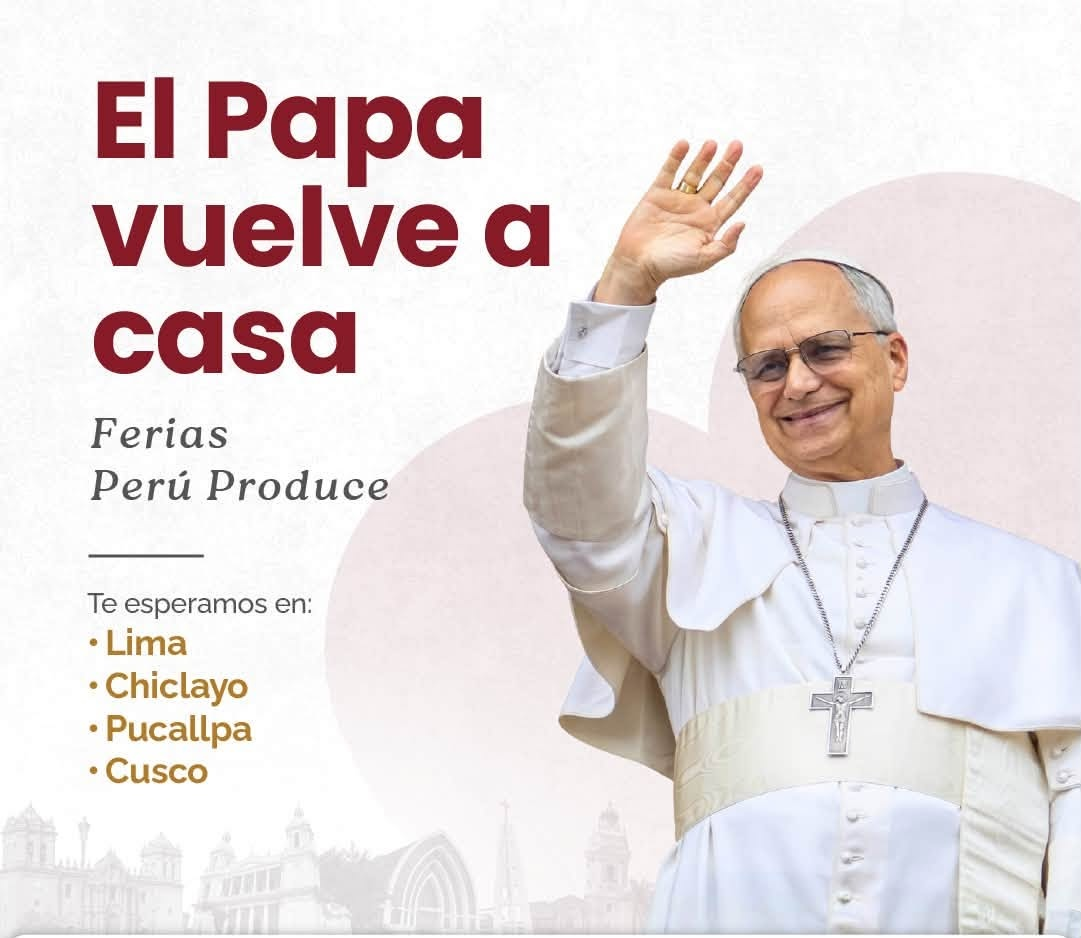
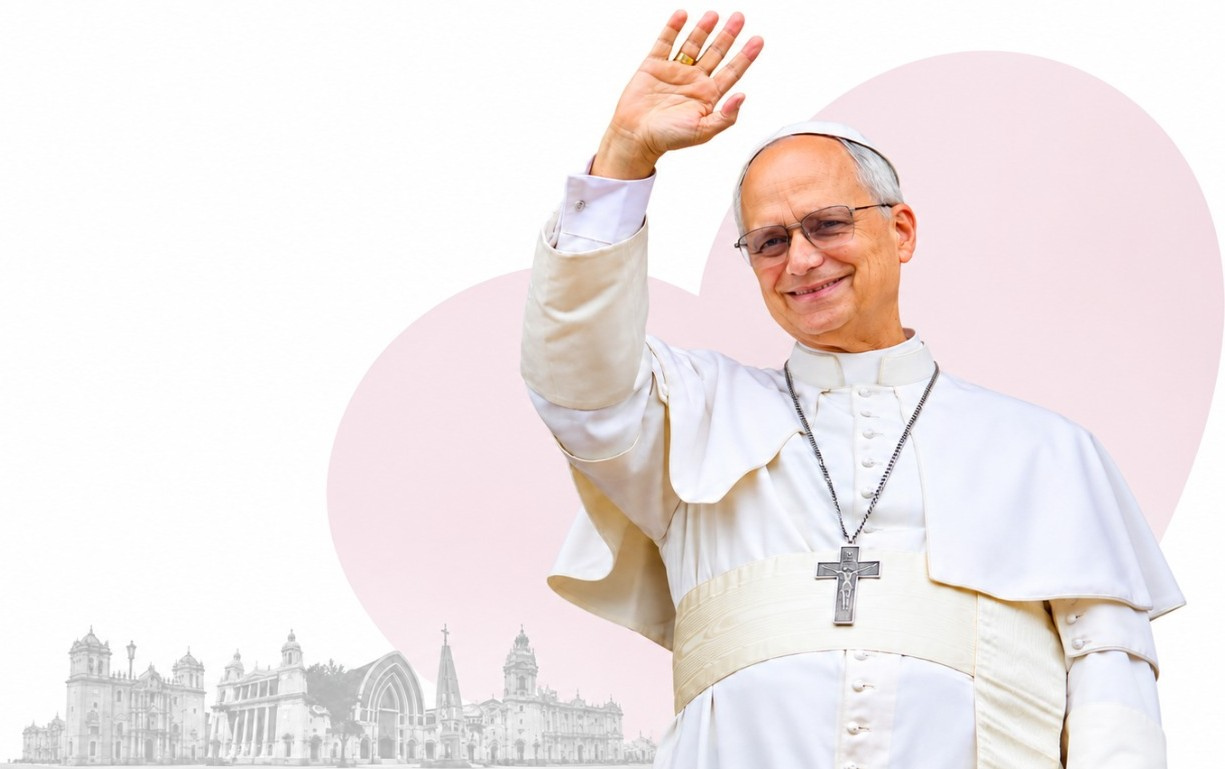
app

diff --git a/src/pages/mypes/tu-empresa.tsx b/src/pages/mypes/tu-empresa.tsx
@@ -1,5 +1,5 @@
 import { useEffect, useRef, useState } from "react";
-import mypesStore from "@/assets/images/mypes-store.jpeg";
+import mypesStore from "@/assets/images/mypes-store.png";
 // import pointPhone from "@/assets/points/point-1.png";
 // import pointClock from "@/assets/points/point-2.png";
 // import pointDiscount from "@/assets/points/point-3.png";
@@ -20,6 +20,7 @@ type Store = {
   descripcion?: string | null;
   region?: string | null;
   provincia?: string | null;
+  numero_dni?: string | null;
 };
 
 type ApiInscrito = {
@@ -33,6 +34,7 @@ type ApiInscrito = {
   descripcion?: string | null;
   region?: string | null;
   provincia?: string | null;
+  numero_dni?: string | null;
 };
 
 type ApiResponse = {
@@ -79,7 +81,7 @@ function StoreDescription({ description, onOpen }: { description: string; onOpen
 
   return (
     <div>
-      <p ref={descriptionRef} className="mt-2 line-clamp-3 text-xs leading-5 text-black/60">
+      <p ref={descriptionRef} className="mt-2 line-clamp-3 text-xs leading-5 text-black/60 sm:text-[13px]">
         {description}
       </p>
       {isTruncated && (
@@ -119,6 +121,7 @@ export default function TuEmpresa() {
   const loadingRef = useRef(false);
   const pageRef = useRef(0);
   const hasMoreRef = useRef(true);
+  const [orderSeed] = useState(() => `${Date.now().toString(36)}-${Math.random().toString(36).slice(2, 10)}`);
 
   useEffect(() => {
     const loadNextPage = async () => {
@@ -135,6 +138,7 @@ export default function TuEmpresa() {
           params: {
             page: nextPage,
             pageSize: PAGE_SIZE,
+            seed: orderSeed,
           },
         });
 
@@ -149,6 +153,7 @@ export default function TuEmpresa() {
           descripcion: inscrito.descripcion || null,
           region: inscrito.region || null,
           provincia: inscrito.provincia || null,
+          numero_dni: inscrito.numero_dni || null,
         }));
 
         setStores((currentStores) => [...currentStores, ...newStores]);
@@ -211,11 +216,11 @@ export default function TuEmpresa() {
       <section className="w-full bg-[#f3f1ed]">
         <div className="mx-auto grid max-w-6xl sm:grid-cols-2">
           <div className="mype-hero-copy flex flex-col justify-center px-8 py-12 sm:px-12 lg:px-16 lg:py-16">
-            <h1 className="max-w-md font-display text-4xl leading-[1.02] tracking-[-0.03em] sm:text-5xl lg:text-6xl">
-              Marcas con historia, hechas para quedarse.
+            <h1 className="max-w-md font-display text-4xl leading-[1.02] tracking-[-0.03em] sm:text-5xl lg:text-5xl">
+              El Papa vuelve a casa y el Perú muestra su talento
             </h1>
             <p className="mt-5 max-w-sm text-sm leading-6 text-black/60">
-              Conoce emprendimientos peruanos y encuentra una nueva marca para seguir, recomendar y elegir.
+              La visita del Papa León XIV es también una oportunidad para celebrar lo que somos y mostrar lo que producimos.
             </p>
             <a href="#marcas" className="mt-8 w-fit bg-[#171717] px-6 py-3 text-[11px] font-bold uppercase tracking-[0.14em] text-white transition hover:bg-[#e93224]">
               Ver marcas
@@ -227,7 +232,7 @@ export default function TuEmpresa() {
             <img src={pointDiscount} alt="" aria-hidden="true" className="mype-point mype-point--discount" />
             <img src={pointGift} alt="" aria-hidden="true" className="mype-point mype-point--gift" />
             <img src={pointLocation} alt="" aria-hidden="true" className="mype-point mype-point--location" /> */}
-            <img src={mypesStore} alt="Emprendedores peruanos" className="absolute inset-0 block h-full w-full object-contain" />
+            <img src={mypesStore} alt="Emprendedores peruanos" className="absolute inset-0 block h-full w-full" />
           </div>
         </div>
       </section>
@@ -273,6 +278,11 @@ export default function TuEmpresa() {
                   <div className="flex items-start justify-between gap-3">
                     <h2 className="text-sm font-bold leading-5 text-[#17212b] sm:text-base" title={store.nombre}>{store.nombre}</h2>
                   </div>
+                  {store.numero_dni && (
+                    <p className="mt-1 text-[11px] font-medium uppercase tracking-[0.1em] text-black/45">
+                      DNI: <span className="text-black/60">{store.numero_dni}</span>
+                    </p>
+                  )}
                   {store.descripcion && (
                     <StoreDescription description={store.descripcion} onOpen={() => setSelectedStore(store)} />
                   )}
@@ -339,6 +349,11 @@ export default function TuEmpresa() {
               <h2 id="mype-modal-title" className="font-display text-2xl leading-tight text-[#17212b]">
                 {selectedStore.nombre}
               </h2>
+              {selectedStore.numero_dni && (
+                <p className="mt-1 text-[11px] font-medium uppercase tracking-[0.12em] text-black/45">
+                  DNI: <span className="text-black/60">{selectedStore.numero_dni}</span>
+                </p>
+              )}
               {(selectedStore.region || selectedStore.provincia) && (
                 <div className="mt-3 inline-flex items-center rounded-full bg-[#fff1ed] px-3 py-1 text-[11px] font-semibold text-[#d84432] ring-1 ring-[#f8c8bd]">
                   <span aria-hidden="true" className="mr-1">•</span>
@@ -368,13 +383,13 @@ export default function TuEmpresa() {
                 </div>
               ) : null}
 
-              <button
+              {/* <button
                 type="button"
                 onClick={() => setSelectedStore(null)}
                 className="mt-6 w-full bg-[#171717] px-6 py-3 text-[11px] font-bold uppercase tracking-[0.14em] text-white transition hover:bg-[#e93224]"
               >
                 Cerrar
-              </button>
+              </button> */}
             </div>
           </div>
         </div>
